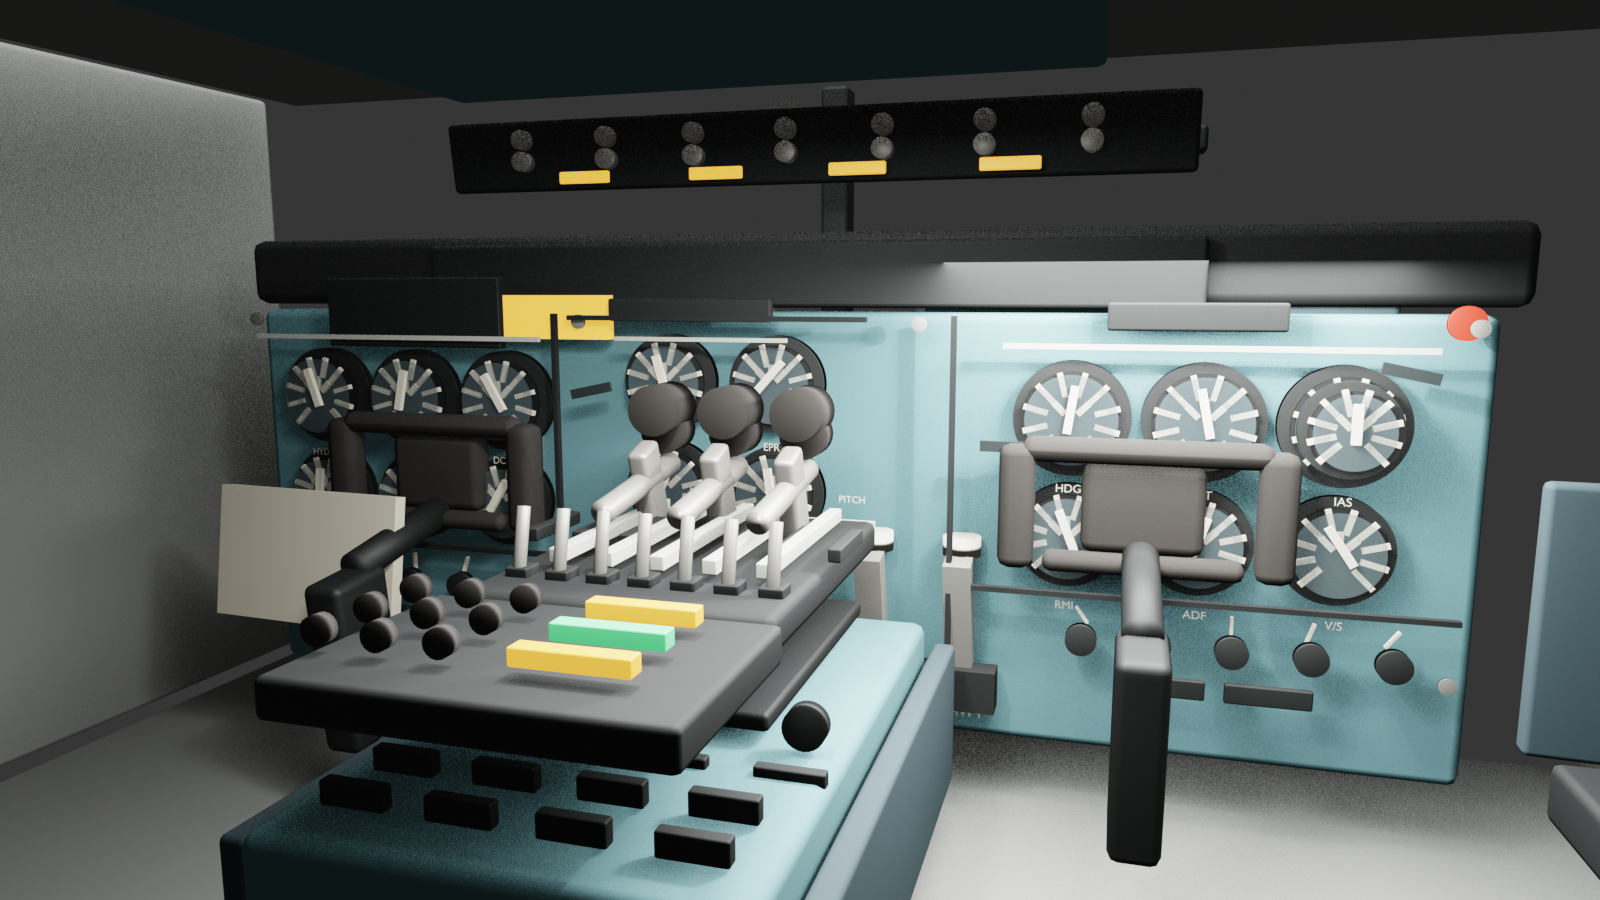
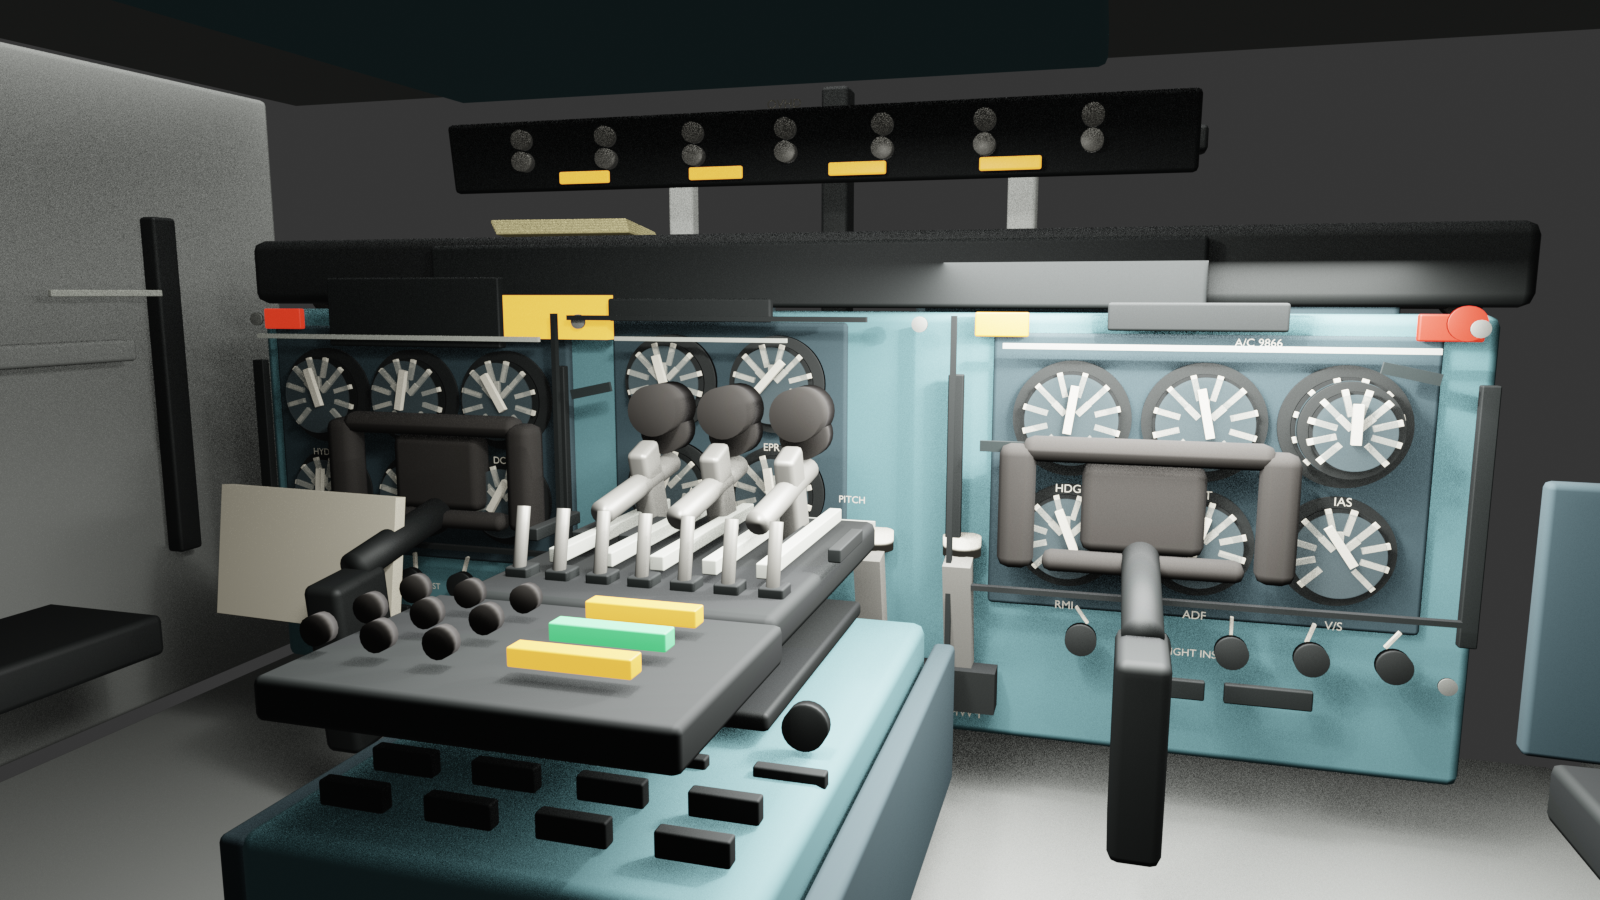
Refine DC-9 cockpit enclosure cues

diff --git a/tools/blender/create_dc9_pipeline_proof.py b/tools/blender/create_dc9_pipeline_proof.py
@@ -276,6 +276,23 @@ def add_annunciator_bank(parent, mat_housing, mat_amber, mat_green, mat_text):
     add_label("DC9_ANNUNCIATOR_BANK_LABEL_01", parent, "SYS", (0.98, -0.872, 0.985), 0.024, mat_text)
 
 
+def add_main_panel_inset_trays(parent, mat_dark, mat_placard, mat_amber, mat_red, mat_label):
+    trays = [
+        ("DC9_CAPTAIN_INSTRUMENT_RECESSED_TRAY_01", (-0.98, -0.915, 0.57), (0.92, 0.035, 0.64)),
+        ("DC9_FIRST_OFFICER_INSTRUMENT_RECESSED_TRAY_01", (1.03, -0.915, 0.57), (0.92, 0.035, 0.64)),
+        ("DC9_CENTER_ENGINE_RECESSED_TRAY_01", (0.14, -0.925, 0.61), (0.62, 0.035, 0.6)),
+    ]
+    for name, loc, scale in trays:
+        tray = soft_cube(name, parent, loc, scale, mat_dark, bevel_amount=0.01)
+        tray["detail_role"] = "primary_reference_recessed_instrument_tray"
+    for idx, (x, z) in enumerate([(-1.44, 0.91), (-0.54, 0.91), (0.66, 0.91), (1.43, 0.91)]):
+        soft_cube(f"DC9_PANEL_WARNING_FLAG_{idx:02d}", parent, (x, -0.872, z), (0.12, 0.02, 0.055), mat_red if idx in {0, 3} else mat_amber, bevel_amount=0.004)
+    for idx, (text, x) in enumerate([("A/C 9866", -1.08), ("A/C 9866", 1.08), ("FLIGHT INST", -0.98), ("NAV INST", 1.02)]):
+        add_label(f"DC9_PANEL_SMALL_HEADER_{idx:02d}", parent, text, (x, -0.866, 0.875 if idx < 2 else 0.18), 0.024, mat_label, (math.radians(90), 0, math.radians(180)))
+    for idx, x in enumerate([-1.52, -0.44, 0.58, 1.52]):
+        soft_cube(f"DC9_PANEL_BLACK_MODULE_EDGE_{idx:02d}", parent, (x, -0.87, 0.52), (0.035, 0.025, 0.55), mat_placard, bevel_amount=0.003)
+
+
 def add_forward_overhead_face(parent, mat_panel, mat_switch, mat_amber, mat_label):
     face = soft_cube("DC9_FORWARD_OVERHEAD_FACE_01", parent, (0, -1.02, 1.34), (1.9, 0.08, 0.18), mat_panel, (math.radians(-8), 0, 0), 0.012)
     face["detail_role"] = "visible_forward_overhead_reference_band"
@@ -319,13 +336,55 @@ def add_window_depth(parent, mat_frame, mat_glass):
     soft_cube("DC9_WINDSHIELD_LOWER_SHADOW_LIP_01", parent, (0, -1.485, 0.49), (2.25, 0.08, 0.055), mat_frame, bevel_amount=0.01)
 
 
+def add_windshield_reference_hardware(parent, mat_frame, mat_light, mat_dark, mat_label):
+    for side, x, angle in [("LEFT", -0.52, -16), ("RIGHT", 0.52, 16)]:
+        soft_cube(f"DC9_WINDSHIELD_{side}_WHITE_POST_01", parent, (x, -1.575, 0.96), (0.08, 0.065, 0.82), mat_light, (0, 0, math.radians(angle * 0.16)), 0.012)
+        cylinder(f"DC9_WINDSHIELD_{side}_WIPER_PIVOT_01", parent, (x * 1.42, -1.595, 0.62), 0.032, 0.022, mat_dark, 24, (math.pi / 2, 0, 0))
+        blade = soft_cube(
+            f"DC9_WINDSHIELD_{side}_WIPER_ARM_01",
+            parent,
+            (x * 1.18, -1.61, 0.67),
+            (0.58, 0.024, 0.024),
+            mat_dark,
+            (0, 0, math.radians(-6 if side == "LEFT" else 6)),
+            0.006,
+        )
+        blade["detail_role"] = "primary_reference_windshield_wiper"
+    add_label("DC9_GLARESHIELD_STALL_LABEL_LEFT_01", parent, "STALL", (-1.36, -1.185, 1.035), 0.042, mat_label, (math.radians(88), 0, math.radians(170)))
+    add_label("DC9_GLARESHIELD_STALL_LABEL_RIGHT_01", parent, "STALL", (1.36, -1.185, 1.035), 0.042, mat_label, (math.radians(88), 0, math.radians(190)))
+    for side, x, angle in [("LEFT", -1.34, -14), ("RIGHT", 1.34, 14)]:
+        soft_cube(f"DC9_GLARESHIELD_{side}_STALL_HANDLE_BASE_01", parent, (x, -1.17, 0.98), (0.34, 0.055, 0.07), mat_dark, (0, 0, math.radians(angle)), 0.012)
+        cylinder(f"DC9_GLARESHIELD_{side}_STALL_HANDLE_KNOB_01", parent, (x + (-0.2 if side == "LEFT" else 0.2), -1.19, 0.965), 0.04, 0.07, mat_dark, 24, (math.pi / 2, 0, 0))
+
+
+def add_glareshield_paper_stack(parent, mat_paper, mat_shadow):
+    base_y = -1.39
+    for idx in range(5):
+        paper = soft_cube(
+            f"DC9_GLARESHIELD_YELLOW_PAPER_STACK_{idx:02d}",
+            parent,
+            (0.78 + idx * 0.008, base_y - idx * 0.006, 1.145 + idx * 0.008),
+            (0.42, 0.28, 0.012),
+            mat_paper,
+            (math.radians(5), 0, math.radians(3 + idx * 0.8)),
+            0.003,
+        )
+        paper["detail_role"] = "primary_reference_glareshield_paper_stack"
+    soft_cube("DC9_GLARESHIELD_PAPER_STACK_SHADOW_01", parent, (0.79, -1.385, 1.125), (0.45, 0.3, 0.01), mat_shadow, (math.radians(5), 0, math.radians(3)), 0.003)
+
+
 def add_sidewall_depth(parent, mat_shell, mat_dark, mat_wear):
     soft_cube("DC9_LEFT_SIDEWALL_RIB_FORWARD_01", parent, (-1.93, -0.95, 0.7), (0.055, 0.08, 1.0), mat_dark, bevel_amount=0.01)
     soft_cube("DC9_LEFT_SIDEWALL_RIB_AFT_01", parent, (-1.93, 0.38, 0.58), (0.055, 0.08, 0.82), mat_dark, bevel_amount=0.01)
     soft_cube("DC9_LEFT_SIDE_WINDOW_SILL_01", parent, (-1.92, -0.22, 0.82), (0.08, 1.16, 0.06), mat_shell, bevel_amount=0.01)
     soft_cube("DC9_LEFT_ARMREST_SHADOW_01", parent, (-1.75, -0.02, 0.1), (0.38, 1.0, 0.11), mat_dark, bevel_amount=0.018)
+    soft_cube("DC9_RIGHT_SIDEWALL_RIB_FORWARD_01", parent, (1.93, -0.95, 0.7), (0.055, 0.08, 1.0), mat_dark, bevel_amount=0.01)
+    soft_cube("DC9_RIGHT_SIDEWALL_RIB_AFT_01", parent, (1.93, 0.38, 0.58), (0.055, 0.08, 0.82), mat_dark, bevel_amount=0.01)
+    soft_cube("DC9_RIGHT_SIDE_WINDOW_SILL_01", parent, (1.92, -0.22, 0.82), (0.08, 1.16, 0.06), mat_shell, bevel_amount=0.01)
+    soft_cube("DC9_RIGHT_ARMREST_SHADOW_01", parent, (1.75, -0.02, 0.1), (0.38, 1.0, 0.11), mat_dark, bevel_amount=0.018)
     for idx, y in enumerate([-0.72, -0.18, 0.36]):
         soft_cube(f"DC9_LEFT_SIDEWALL_WEAR_STRIP_{idx:02d}", parent, (-1.875, y, 0.98), (0.012, 0.34, 0.018), mat_wear, bevel_amount=0.002)
+        soft_cube(f"DC9_RIGHT_SIDEWALL_WEAR_STRIP_{idx:02d}", parent, (1.875, y, 0.98), (0.012, 0.34, 0.018), mat_wear, bevel_amount=0.002)
 
 
 def add_panel_wear(parent, mat_wear, mat_shadow):
@@ -388,6 +447,7 @@ def create_scene() -> None:
     panel_mat = material("DC9_PANEL_BLUE_GREY", (0.135, 0.285, 0.305, 1), 0.86, 0.02)
     panel_dark = material("DC9_PANEL_DARK_BLUE_GREY", (0.045, 0.075, 0.085, 1), 0.82, 0.04)
     shell_mat = material("DC9_SHELL_WARM_GREY", (0.28, 0.29, 0.27, 1), 0.78)
+    post_mat = material("DC9_WINDSHIELD_POST_OFF_WHITE", (0.76, 0.78, 0.72, 1), 0.74, 0.02)
     dark_mat = material("DC9_DARK_BEZEL", (0.025, 0.028, 0.027, 1), 0.58, 0.2)
     glass_mat = material("DC9_GAUGE_GLASS", (0.11, 0.15, 0.16, 0.38), 0.12)
     window_glass_mat = material("DC9_TINTED_WINDOW_GLASS", (0.16, 0.27, 0.3, 0.24), 0.18)
@@ -397,6 +457,7 @@ def create_scene() -> None:
     grip_mat = material("DC9_YOKE_WORN_BLACK", (0.035, 0.032, 0.028, 1), 0.86, 0.04)
     metal_mat = material("DC9_SWITCH_BRUSHED_METAL", (0.48, 0.47, 0.42, 1), 0.44, 0.45)
     card_mat = material("DC9_ROUTE_CARD_OFF_WHITE", (0.86, 0.8, 0.63, 1), 0.88)
+    paper_mat = material("DC9_GLARESHIELD_YELLOW_PAPER", (0.94, 0.82, 0.42, 1), 0.9)
     ink_mat = material("DC9_ROUTE_CARD_INK", (0.05, 0.07, 0.08, 1), 0.8)
     screw_mat = material("DC9_DULL_SCREW_HEADS", (0.42, 0.43, 0.39, 1), 0.58, 0.6)
     placard_mat = material("DC9_BLACK_PLACARD", (0.015, 0.018, 0.017, 1), 0.7, 0.05)
@@ -432,6 +493,7 @@ def create_scene() -> None:
     soft_cube("DC9_WINDOW_LEFT_LOWER_FRAME_01", static, (-1.15, -1.48, 0.62), (0.62, 0.08, 0.06), dark_mat, (0, 0, math.radians(8)), 0.01)
     soft_cube("DC9_WINDOW_RIGHT_LOWER_FRAME_01", static, (1.15, -1.48, 0.62), (0.62, 0.08, 0.06), dark_mat, (0, 0, math.radians(-8)), 0.01)
     add_window_depth(static, dark_mat, window_glass_mat)
+    add_windshield_reference_hardware(static, dark_mat, post_mat, grip_mat, tick_mat)
     add_sidewall_depth(static, shell_mat, dark_mat, wear_mat)
 
     soft_cube("DC9_MAIN_PANEL_BLOCKOUT_01", static, (0, -1.0, 0.42), (3.1, 0.16, 1.03), panel_mat, bevel_amount=0.025)
@@ -439,6 +501,8 @@ def create_scene() -> None:
     soft_cube("DC9_CENTER_ENGINE_PANEL_BLOCKOUT_01", static, (0.12, -1.105, 0.58), (0.72, 0.08, 0.7), panel_dark, bevel_amount=0.018)
     soft_cube("DC9_GLARESHIELD_BLOCKOUT_01", static, (0, -1.21, 1.04), (3.25, 0.48, 0.18), dark_mat, bevel_amount=0.03)
     add_glareshield_control_strip(static, placard_mat, dark_mat, amber_mat, blue_mat, tick_mat)
+    add_glareshield_paper_stack(static, paper_mat, grime_mat)
+    add_main_panel_inset_trays(static, panel_dark, placard_mat, amber_mat, red_mat, tick_mat)
     soft_cube("DC9_CENTER_PEDESTAL_BLOCKOUT_01", static, (0, -0.18, 0.03), (0.78, 1.26, 0.38), panel_mat, bevel_amount=0.025)
     soft_cube("DC9_CENTER_PEDESTAL_SIDE_SHADOW_01", static, (-0.44, -0.18, 0.02), (0.05, 1.18, 0.33), panel_dark, bevel_amount=0.012)
     soft_cube("DC9_CENTER_PEDESTAL_SIDE_SHADOW_02", static, (0.44, -0.18, 0.02), (0.05, 1.18, 0.33), panel_dark, bevel_amount=0.012)

diff --git a/asset-reports/dc9-pipeline-proof.md b/asset-reports/dc9-pipeline-proof.md
@@ -19,6 +19,7 @@ Date: 2026-06-22
 - Goal-loop visual pass 1: 2026-06-22 captain-seat improvement pass regenerated the source blend, deployable GLB, and approval render from `tools/blender/create_dc9_pipeline_proof.py`.
 - Goal-loop visual pass 2: 2026-06-22 primary-reference alignment pass used `art-source/references/dc9-51/primary/dc9_51_n775nc_cockpit_primary.jpg` as the shape/color target for the yokes, overhead band, panel labels, blue-grey material balance, and visible cockpit density.
 - Goal-loop visual pass 3: 2026-06-22 pedestal and glareshield reference pass added a black throttle quadrant/radio stack and denser glareshield/autopilot strip to better match the primary DC-9-51 cockpit reference silhouette.
+- Goal-loop local batch 4: 2026-06-22 cockpit enclosure and panel-depth pass added windshield posts, wiper arms, glareshield stall-handle cues, a yellow paper stack, right-side wall depth, and recessed instrument trays. This batch is kept local until enough visual iterations justify a PR update.
 
 ## Asset Contents
 
@@ -45,6 +46,8 @@ Date: 2026-06-22
   - added a camera-facing forward-overhead strip with knobs and amber windows, non-mirrored instrument labels, tinted windshield panes, sidewall ribs, circuit-breaker detail, and restrained wear/grime accents
   - added a black pedestal throttle quadrant with rails, lever handles, toggle rows, radio digit windows, and small knobs to give the lower-center view a more mechanical DC-9 read
   - added a denser glareshield/autopilot strip with knobs, amber readouts, blue pushbuttons, and a visible label band
+  - added primary-reference enclosure cues: off-white windshield posts, wiper arms, side brow/stall-handle shapes, right-side sidewall ribs, and the yellow glareshield paper stack visible in the seed photo
+  - added recessed dark instrument trays and small warning/header placards to reduce the flat blue-panel look
 
 ## Runtime Contract
 
@@ -69,10 +72,10 @@ Custom properties exported to glTF extras:
 
 ## GLB Inspection
 
-- GLB size: 2,411,332 bytes / 2.30 MiB
-- Node count: 602
-- Mesh count: 591
-- Material count: 21
+- GLB size: 2,579,768 bytes / 2.46 MiB
+- Node count: 642
+- Mesh count: 631
+- Material count: 23
 - Animation count: 1
 - Camera count: 1
 - Textures: none
@@ -100,7 +103,7 @@ Results:
 - `gltf-transform validate` reported no errors and no warnings. It reports info-level unused UV attributes and empty hierarchy nodes; these are expected for this named blockout because UVs are reserved for later texture work and empty hierarchy nodes preserve the asset contract.
 - `npm run assets:check` passed.
 - `npm run check` passed as non-mutating validation; browser integration remains Windows-owned.
-- Manual visual inspection of `preview-renders/dc9-captain-approval.png` confirmed a stronger captain-seat read against the primary DC-9-51 cockpit reference: squared yokes with checklist placards, readable gauge labels, a visible forward-overhead control band, denser instrument panel, black mechanical pedestal/throttle/radio-stack detail, glareshield controls, clearer pedestal depth, and less flat main-panel presentation.
+- Manual visual inspection of `preview-renders/dc9-captain-approval.png` confirmed a stronger captain-seat read against the primary DC-9-51 cockpit reference: squared yokes with checklist placards, readable gauge labels, a visible forward-overhead control band, denser instrument panel, black mechanical pedestal/throttle/radio-stack detail, glareshield controls, windshield/wiper/paper-stack reference cues, recessed instrument trays, clearer cockpit enclosure, and less flat main-panel presentation.
 
 ## Known Deviations
 
@@ -110,4 +113,5 @@ Results:
 - The current captain view is more recognizable and more dramatic than the first pipeline proof, but it still needs reference-driven production modeling, real panel sub-shapes, proper baked labels/wear, and browser review before the greybox label can be removed.
 - The forward-overhead band is intentionally simplified and pulled into the approval camera view for reference alignment; production art should replace it with correctly positioned overhead geometry once the full cockpit shell advances beyond proof stage.
 - The pass-3 pedestal remains simplified and slightly oversized for proof-stage readability. Production art should refine the pedestal proportions, throttle lever spacing, radio stack depth, and material breakup against additional primary references.
+- The windshield posts, wipers, stall-handle cues, and paper stack are proof-stage silhouettes placed to improve the captain approval view; production art should refine their exact shape, anchoring, and windshield-frame integration.
 - The browser integration is Windows-owned under `src/**`; this Ubuntu branch only provides the deployable GLB and documented runtime contract.